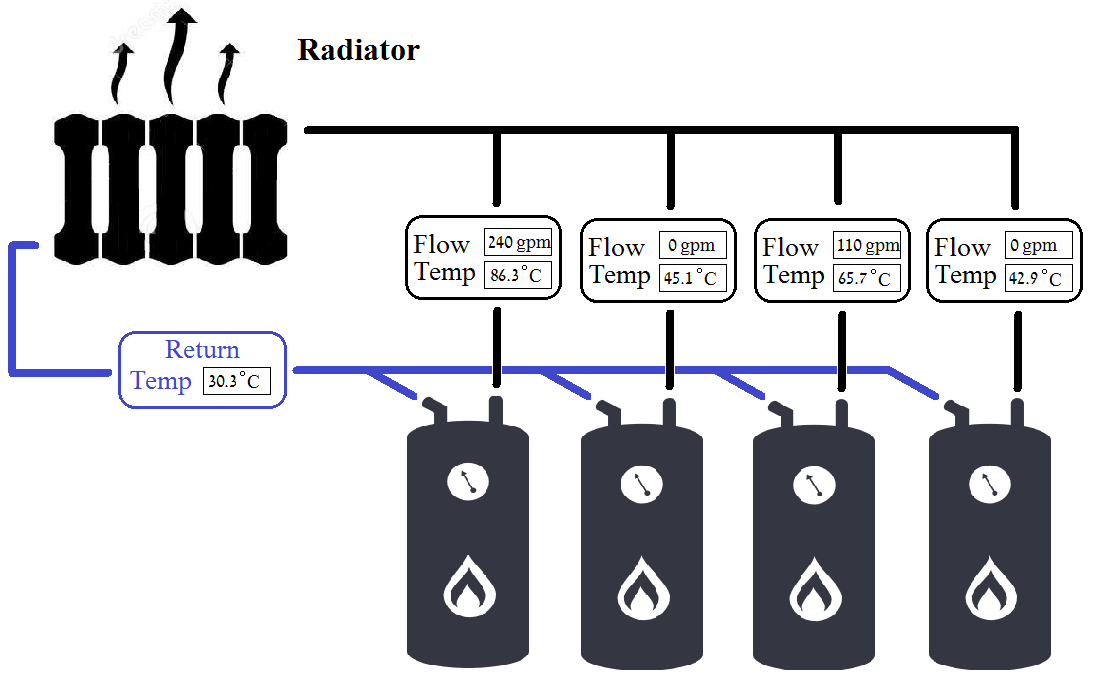
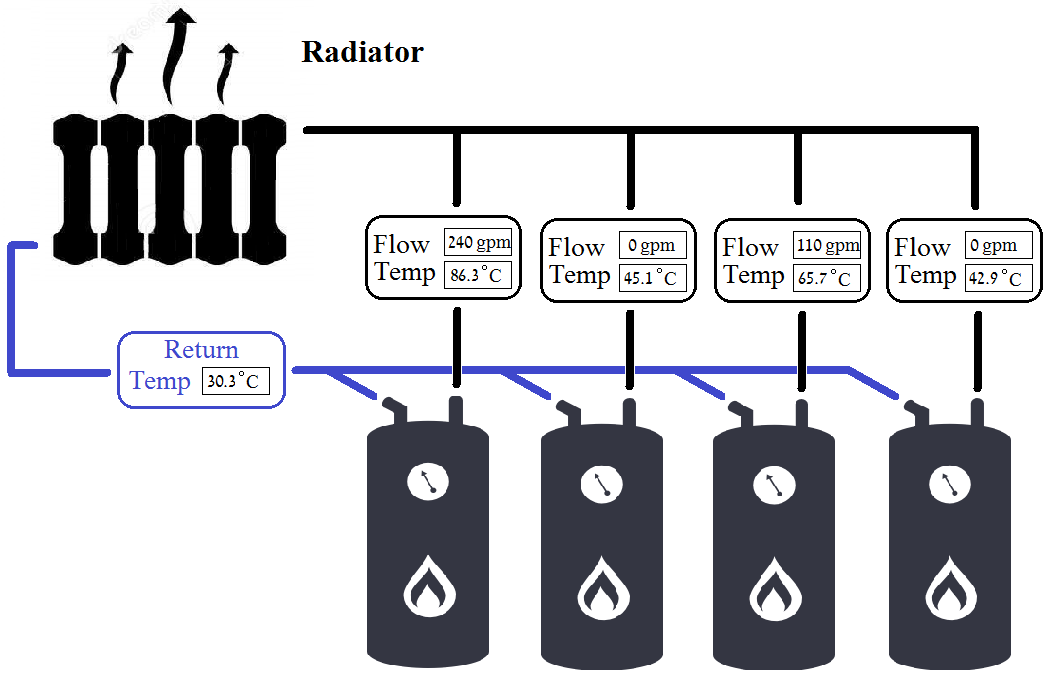
August 23, 2017
Added pictures to HTML page

diff --git a/HTML/heat-dump.html b/HTML/heat-dump.html
@@ -21,6 +21,7 @@
       <div id="logo">
           <img src="images/Nscc_logo.png"
                alt="NSCC Logo"
+               src="#"
                width="500"
                height="112">
       </div>
@@ -28,7 +29,7 @@
       <!-- menus.html -->
     <nav onmouseout="hide()">
       <ul class="Links">
-        <li><a href="#" onmouseover="show('m1')">Home</a></li>
+        <li><a href="index.html" onmouseover="show('m1')">Home</a></li>
         <li><a href="#" onmouseover="show('m2')">Overview</a></li>
         <li><a href="#" onmouseover="show('m2')">Help</a></li>
         <li>
@@ -48,20 +49,13 @@
     </header>
     <main>
       <article id="textLeft">
-        <h3>Applied Research</h3>
-        <p>NSCC Applied Research develops practical and innovative solutions for 
-	        industry's real-world problems. With an expert research team and network 
-	        of faculty and students from some of our most challenging and cutting-edge 
-	        programs, we help industry improve their products, enhance processes, and 
-	        grow their businesses. NSCC has well-equipped facilities which provide us 
-	        with the tools to contribute to the development of new technologies that we 
-	        can transfer to our partners. The commercialization of research findings adds 
-	        value to the communities we serve and contributes to the economic growth of 
-	        our province.</p>
+        <h3>Microgrid</h3>
       </article>
-      <div id="image">
-	    <a href="https://placeholder.com">
-		  <img src="http://via.placeholder.com/200x300"></a>
+      <div id="bgimage3">
+          <img src="images/heat-dump.png"
+              alt="Heat Dump System"
+              width="742"
+              height="610">
       </div>
     </main>
     <footer>

diff --git a/HTML/hot-water-tank.html b/HTML/hot-water-tank.html
@@ -21,6 +21,7 @@
       <div id="logo">
           <img src="images/Nscc_logo.png"
                alt="NSCC Logo"
+               src="#"
                width="500"
                height="112">
       </div>
@@ -28,7 +29,7 @@
       <!-- menus.html -->
     <nav onmouseout="hide()">
       <ul class="Links">
-        <li><a href="#" onmouseover="show('m1')">Home</a></li>
+        <li><a href="index.html" onmouseover="show('m1')">Home</a></li>
         <li><a href="#" onmouseover="show('m2')">Overview</a></li>
         <li><a href="#" onmouseover="show('m2')">Help</a></li>
         <li>
@@ -48,20 +49,13 @@
     </header>
     <main>
       <article id="textLeft">
-        <h3>Applied Research</h3>
-        <p>NSCC Applied Research develops practical and innovative solutions for 
-	        industry's real-world problems. With an expert research team and network 
-	        of faculty and students from some of our most challenging and cutting-edge 
-	        programs, we help industry improve their products, enhance processes, and 
-	        grow their businesses. NSCC has well-equipped facilities which provide us 
-	        with the tools to contribute to the development of new technologies that we 
-	        can transfer to our partners. The commercialization of research findings adds 
-	        value to the communities we serve and contributes to the economic growth of 
-	        our province.</p>
+        <h3>Microgrid</h3>
       </article>
-      <div id="image">
-	    <a href="https://placeholder.com">
-		  <img src="http://via.placeholder.com/200x300"></a>
+      <div id="bgimage2">
+          <img src="images/water-tank.jpg"
+              alt="Water Tank"
+              width="742"
+              height="610">
       </div>
     </main>
     <footer>

diff --git a/HTML/microgrid.html b/HTML/microgrid.html
@@ -35,8 +35,8 @@
         <li>
           <a href="#" onmouseover="show('m3')">Monitoring</a> 
           <div id="m3" onmouseover="show('m3')">
-            <a href="#">Hot Water</a>
-            <a href="#">Heat Dump System</a>
+            <a href="hot-water-tank.html">Hot Water</a>
+            <a href="heat-dump.html">Heat Dump System</a>
             <a href="microgrid.html">Micorgrid</a>
           </div>
         </li>

diff --git a/HTML/css/desktop.css b/HTML/css/desktop.css
@@ -107,6 +107,18 @@ div#bgimage {
     text-align: center;
 }
 
+div#bgimage2 {
+    float: center;
+    width: 100%;
+    text-align: center;
+}
+
+div#bgimage3 {
+    float: center;
+    width: 100%;
+    text-align: center;
+}
+
 /********************************************
 footer now contains just a copyright notice */
 footer {
